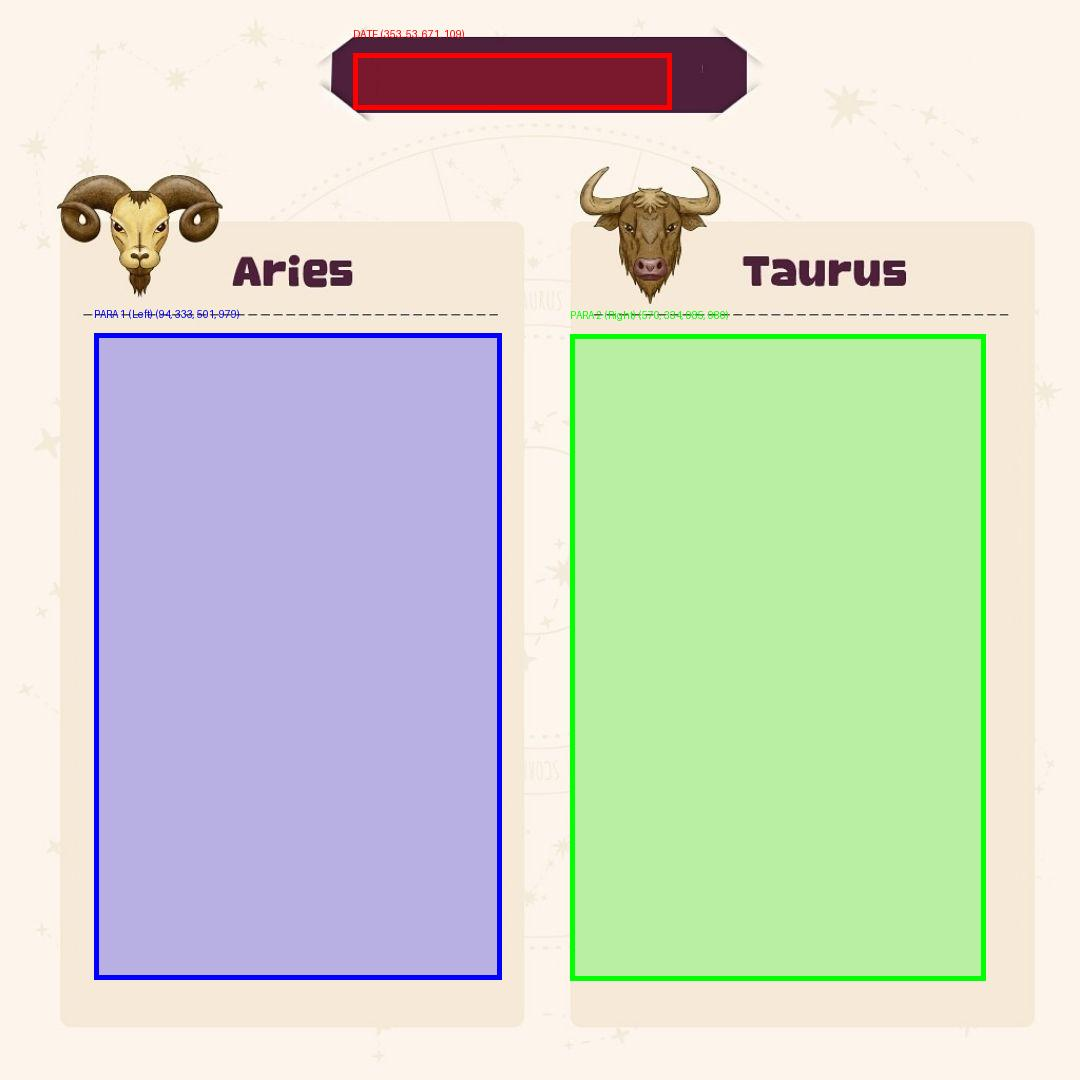
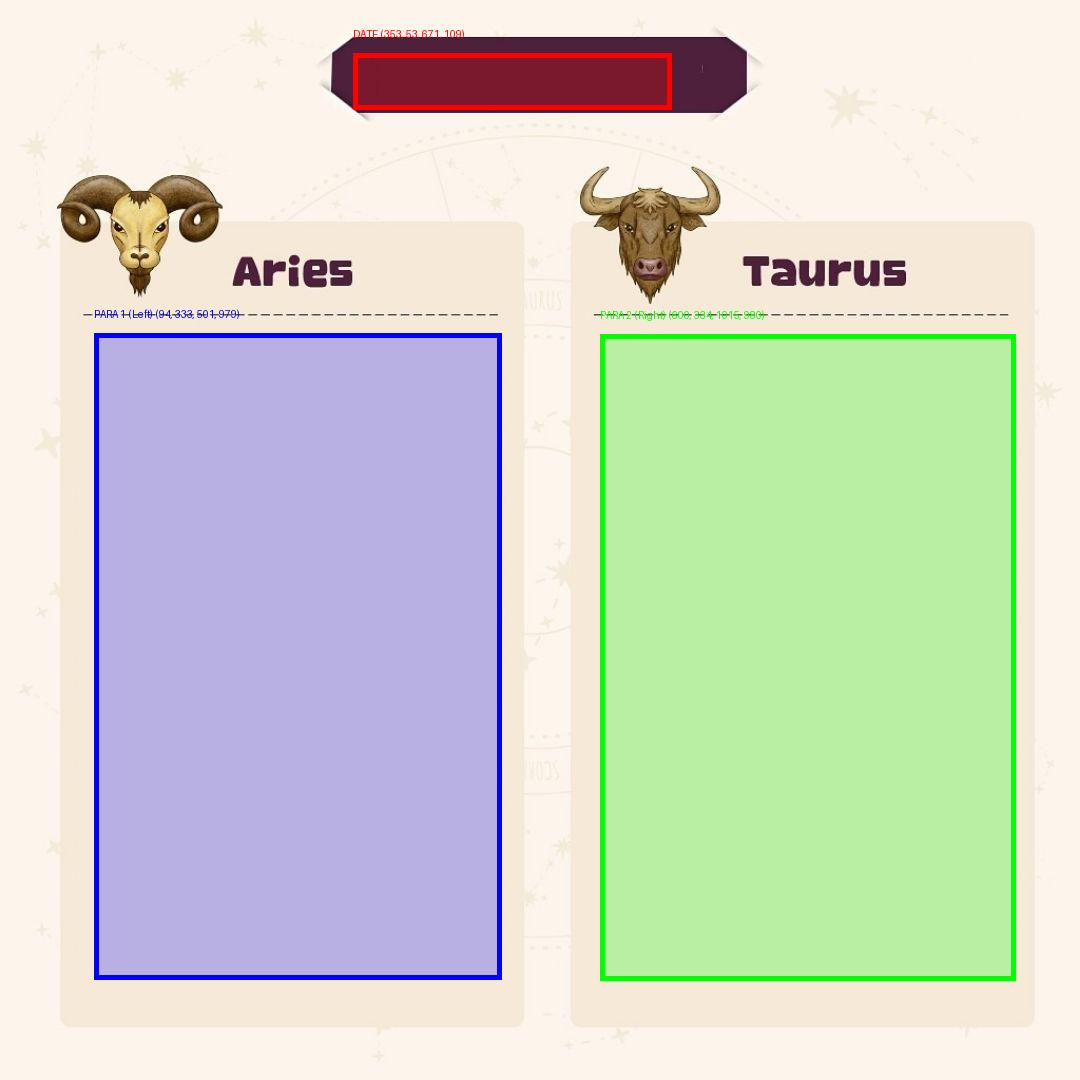
Adjustment Template 2: Shift Para 2 Right (+30px)

Changed region(s): [[0.5194, 0.275, 0.7028, 0.9167], [0.8861, 0.3056, 0.9472, 0.9167]]

diff --git a/horoscope_bot/image_generator.py b/horoscope_bot/image_generator.py
@@ -135,9 +135,9 @@ TEMPLATE_CONFIGS = {
     "2": {
         "dir_name": "Template-2",
         "file_pattern": "{}.jpg",     # 1.jpg, 2.jpg...
-        "date_coords": (353, 53, 671, 109),   # Moved Down +10
-        "para1_coords": (94, 333, 501, 979),  # Moved Right +20, Down +20
-        "para2_coords": (570, 334, 985, 980), # Moved Right +20, Down +20
+        "date_coords": (353, 53, 671, 109),   
+        "para1_coords": (94, 333, 501, 979),  
+        "para2_coords": (600, 334, 1015, 980), # Moved Right +30 (Total +50 from original)
         "text_color": (0, 0, 0),      # Black
         # Ensure pure white
         "date_color": (255, 255, 255),

diff --git a/horoscope_bot/draw_debug_boxes.py b/horoscope_bot/draw_debug_boxes.py
@@ -6,7 +6,7 @@ import os
 CONFIG = {
     "date_coords": (353, 53, 671, 109),
     "para1_coords": (94, 333, 501, 979),
-    "para2_coords": (570, 334, 985, 980),
+    "para2_coords": (600, 334, 1015, 980),
 }
 
 TEMPLATE_PATH = "d:/GITHUB REPOS/zodiac_sign_bot/Template-2/1.jpg"
